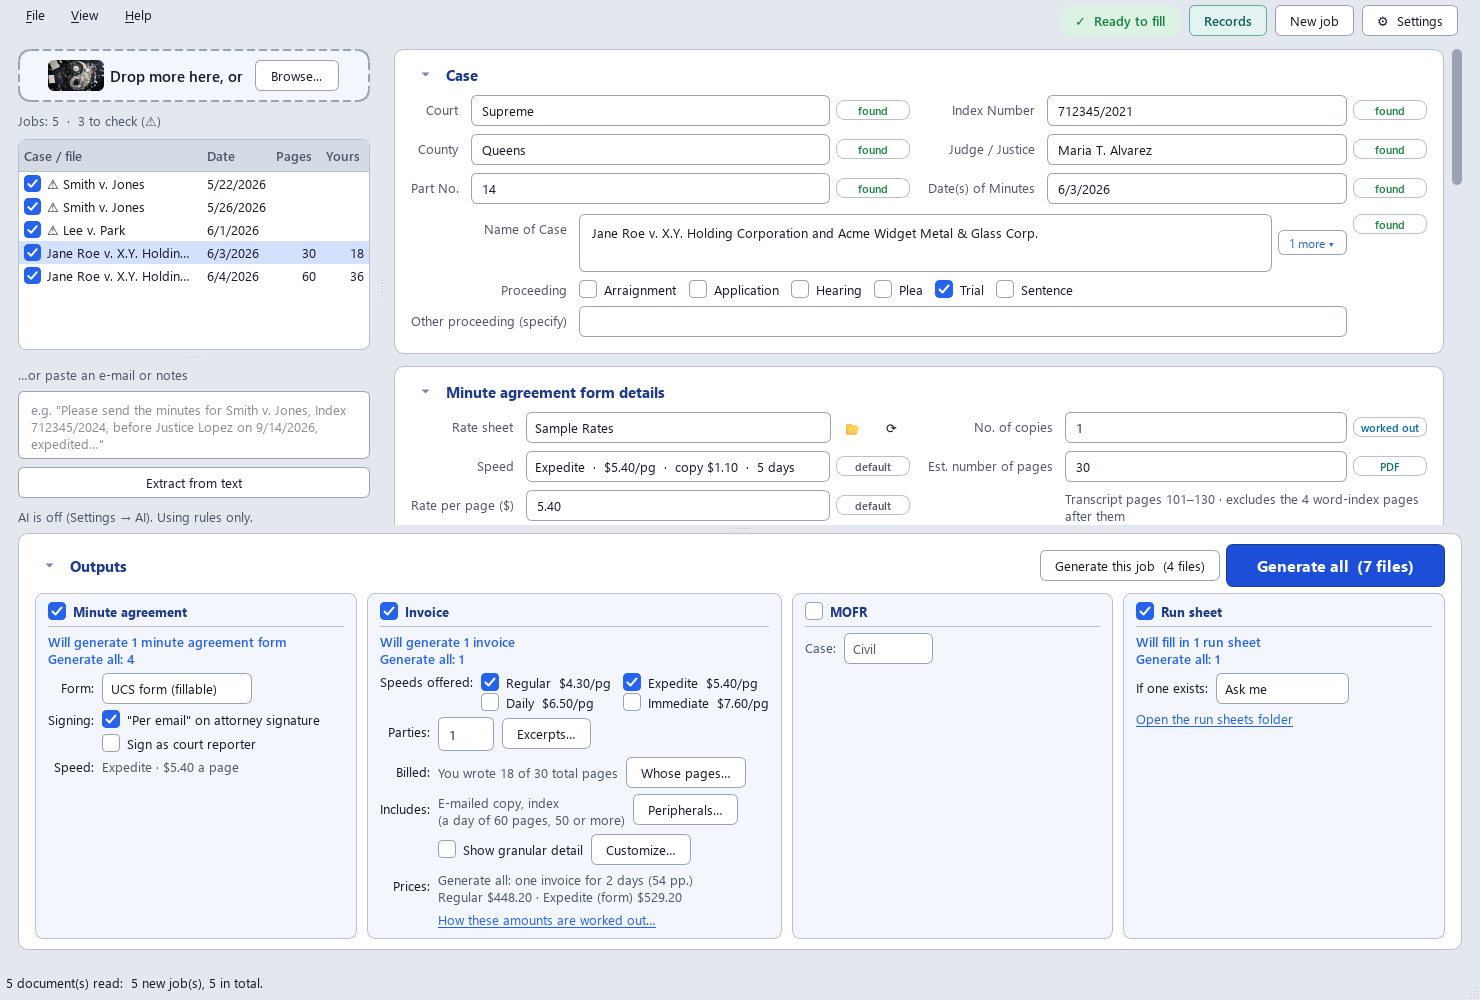
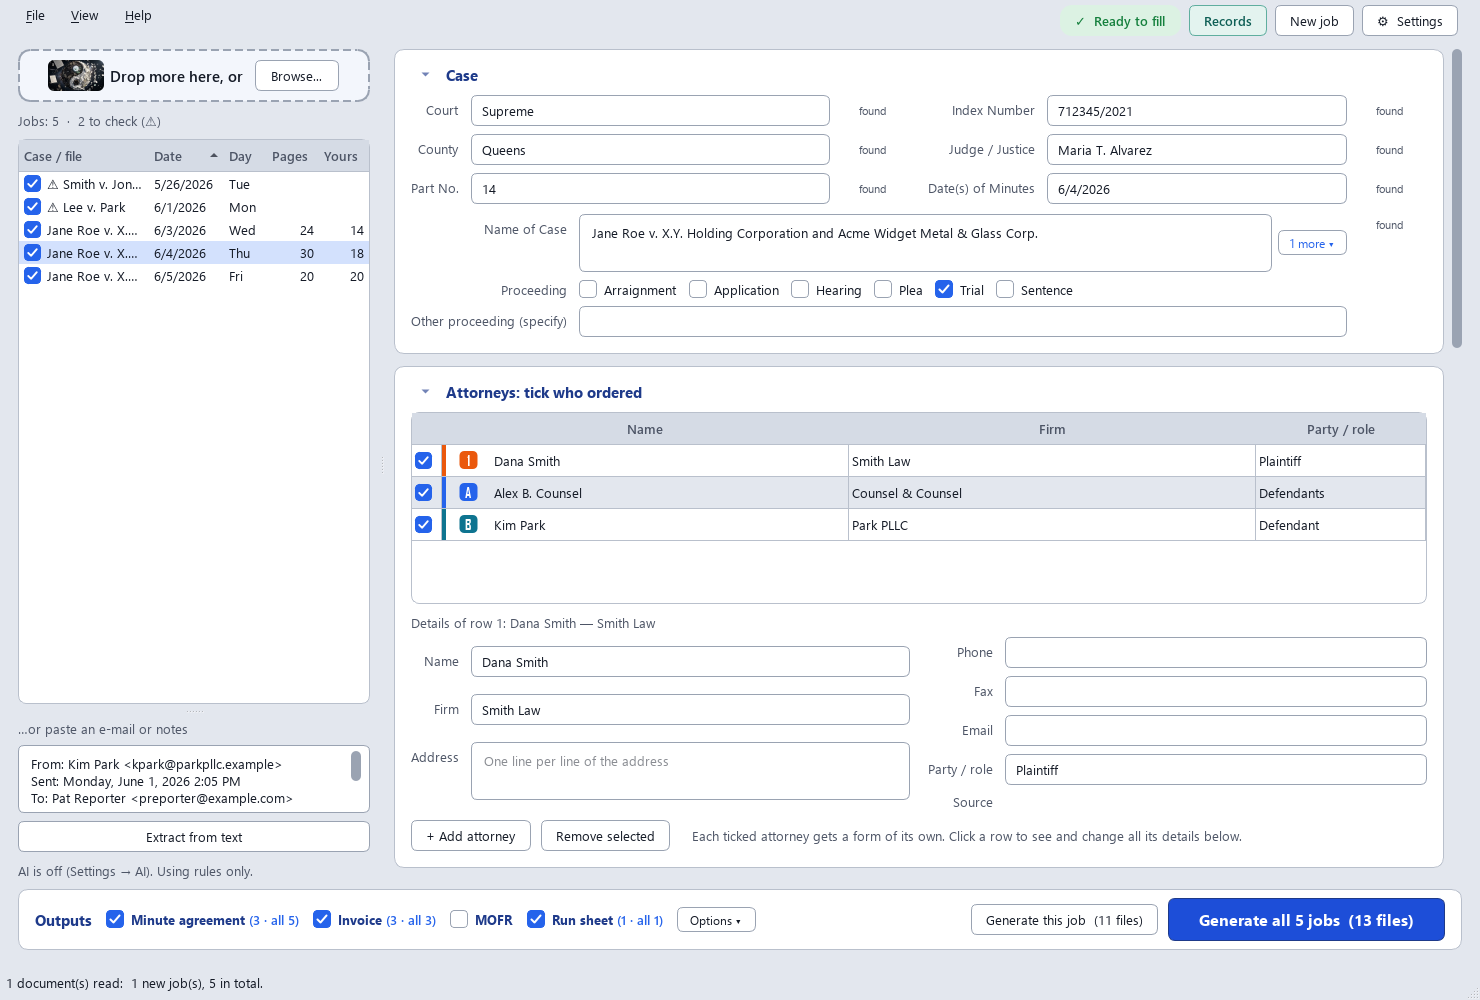
Website for 2.11.0: the form that follows the job, the Outputs row, firm tags, the sortable job list
The main window, batch and Who ordered what pictures taken again with made-up data; the text names the cards
as they are now (Speed, pages and dates, the Invoice card, Excerpts…), the Outputs row with Options, the list
of what to check, the Generate buttons' words, firm tags, the job list's day column and sorting, Who
transcribed what, and the math saved for everyone or one firm.

Claude-Session: https://claude.ai/code/session_01Rg6yCAZqgX1e9FnZik7wbx

diff --git a/docs/index.html b/docs/index.html
@@ -64,7 +64,7 @@
 </header>
 
 <div class="wrap">
-  <img class="shot" src="app.png" alt="The app with a case filled in from a pasted e-mail: the case details, the Minute agreement form details card and the Outputs box, each output saying how many files Generate will make, and at the top right what still needs a look, Records, New job and Settings">
+  <img class="shot" src="app.png" alt="The app with a case filled in from a pasted e-mail: a Before you generate box naming the one thing to check, the Case card, the Attorneys card with the sender ticked and tagged, the Outputs row with how many files each output makes, and at the top right the status, Records, New job and Settings">
 </div>
 
 <section>
@@ -79,9 +79,9 @@
     <h2>How to use it</h2>
     <ol class="steps">
       <li><b>Drop it in</b>A PDF (transcript, invoice), a photo, or paste the e-mail text or a screenshot with Ctrl+V.</li>
-      <li><b>Check the details</b>Every field shows where it came from. Guesses are highlighted, and a list offers other candidates. No case name in the document? An earlier job with the same index number in your records suggests one, highlighted for you to check.</li>
-      <li><b>Tick who ordered, and the speeds</b>Tick the firms who ordered: a firm is one row, naming all its attorneys on the title page, and gets one invoice and one agreement (No. of copies follows). Two rows that might be one firm, "Smith Law" and "Smith Law Group"? You're asked, <b>Same firm</b> or <b>Not the same</b>, and the app remembers your answer (untick <b>Remember</b> to answer for now only; Settings &rarr; Invoice lists your answers, so you can forget one). In the Invoice panel, tick the speeds you offer, once: the invoice lists them all, each at its own price, and the agreement form names one speed at one rate, Expedited when you offer it, unless you pick another under <b>Minute agreement form details</b>. An e-mail asking for another speed? It's pointed out, and Generate asks you which. <b>Who pays what</b>, under the attorneys, shows each firm's invoice in short as you tick. Rates and the estimated delivery date follow your rate sheet.</li>
-      <li><b>Generate</b>Tick what to make in the Outputs box: minute agreement, invoice, MOFR, run sheet, each with its own options, and each saying how many files it will make ("Will generate 2 minute agreement forms") as you tick attorneys. You see every file, and the math, before anything is saved; then the PDFs are saved, one per attorney you tick, and the run sheet gets the day's takes. Ctrl+Enter does it from the keyboard.</li>
+      <li><b>Check the details</b>Every field shows where it came from. Guesses are highlighted, and a list offers other candidates. Anything to look at before you generate is listed at the top of the form, each a link to its place. No case name in the document? An earlier job with the same index number in your records suggests one, highlighted for you to check.</li>
+      <li><b>Tick who ordered, and the speeds</b>Tick the firms who ordered: a firm is one row, naming all its attorneys on the title page, and gets one invoice and one agreement (No. of copies follows). Two rows that might be one firm, "Smith Law" and "Smith Law Group"? You're asked, <b>Same firm</b> or <b>Not the same</b>, and the app remembers your answer (untick <b>Remember</b> to answer for now only; Settings &rarr; Invoice lists your answers, so you can forget one). Under the rate sheet in <b>Speed, pages and dates</b>, tick the speeds you offer, once: the invoice lists them all, each at its own price, and the agreement form names one speed at one rate, Expedited when you offer it, unless you pick another there. An e-mail asking for another speed? It's pointed out, and Generate asks you which. Each firm gets a tag, as court exhibits are marked (the plaintiffs' firms 1, 2, the defense firms A, B), the same on every day of a trial and in every card. <b>Who pays what</b> shows each firm's invoice in short as you tick. Rates and the estimated delivery date follow your rate sheet.</li>
+      <li><b>Generate</b>Tick what to make in the Outputs row: minute agreement, invoice, MOFR, run sheet, each saying how many files it will make as you tick attorneys (<b>Options ▾</b> holds the choices that stay the same from job to job, and the invoice has a card of its own in the form). The button says what it makes: <i>Generate 6/4/2026 only</i>, <i>Generate all 3 days</i>. You see every file, and the math, before anything is saved; then the PDFs are saved, one per attorney you tick, and the run sheet gets the day's takes. Ctrl+Enter does it from the keyboard.</li>
     </ol>
   </div>
 </section>
@@ -90,9 +90,9 @@
   <div class="wrap two">
     <div>
       <h2>A hundred orders? Drop the whole folder.</h2>
-      <p>Batch mode reads any number of documents and sorts them into one job per case and date. A transcript and its invoice make one form, not two. Two days of the same case make two jobs, but <b>Generate all</b> gives each firm <b>one invoice</b> and one minute agreement for all the days it ordered, and the trial one MOFR (Settings &rarr; Options switches back to forms for each day). Tick the jobs you want and press <b>Generate all</b>: the preview shows every file and the math first, and nothing is saved until you say so. The list on the left shows each job's case and date, the transcript's own pages (no word index) and the pages you wrote (<b>Yours</b>); a job read from several documents lists them under it, and a right-click on one shows its text or moves it to a job of its own. A ⚠ next to a job means something to check; hover over it to see what. <b>New job</b> clears the list without asking, and <b>Undo</b> brings it all back for a few seconds.</p>
+      <p>Batch mode reads any number of documents and sorts them into one job per case and date. A transcript and its invoice make one form, not two. Two days of the same case make two jobs, but <b>Generate all</b> gives each firm <b>one invoice</b> and one minute agreement for all the days it ordered, and the trial one MOFR (Settings &rarr; Options switches back to forms for each day). Tick the jobs you want and press <b>Generate all</b>: the preview shows every file and the math first, and nothing is saved until you say so. The list on the left shows each job's case, date and day of the week, oldest first (click a heading to sort by it), the transcript's own pages (no word index) and the pages you wrote (<b>Yours</b>); a job read from several documents lists them under it, and a right-click on one shows its text or moves it to a job of its own. A ⚠ next to a job means something to check; hover over it to see what. <b>New job</b> clears the list without asking, and <b>Undo</b> brings it all back for a few seconds.</p>
     </div>
-    <img class="shot" src="batch.png" alt="Batch mode: five jobs in the list on the left, with each transcript's pages and the pages you wrote (30 and 18 for a trial day two reporters wrote), and the Outputs box: what Generate and Generate all will make, the speeds offered, You wrote 18 of 30 total pages, the index and why, and Run sheet ticked">
+    <img class="shot" src="batch.png" alt="Batch mode: five jobs in the list on the left, oldest first, with their day of the week, each transcript's pages and the pages you wrote (30 and 18 for a trial day two reporters wrote), the trial's three firms tagged 1, A and B in the Attorneys card, and the Outputs row: how many files each output makes for this day and for all the days, Generate this job and Generate all 5 jobs">
   </div>
 </section>
 
@@ -111,7 +111,7 @@
     <img class="shot" src="invoice.png" alt="One invoice for two days of a case, listing the Regular and Expedite amounts">
     <div>
       <h2>Invoices from your transcripts</h2>
-      <p>Drop a transcript PDF and tick <b>Invoice</b>. The page count leaves out the word index printed after the transcript, and the line under it says so: "Transcript pages 378&ndash;460 &middot; excludes the 13 word-index pages after them". It is counted four ways (up to the index, by the line numbers, by the printed page numbers, and the index found from the end); if they disagree, or the index would be more than a quarter of the PDF, the field turns amber and tells you why. The page count and your rate sheet price the original, each party's copy and e-mailed copy, and for long transcripts an index for each party, plus one for the judge that the parties split. Whether there is an index is decided on the whole transcript, every reporter's pages (50 pages or more to start with): your 45 pages of an 83-page transcript get one, charged on your 45. Typed fewer pages in <b>Est. number of pages</b> than the transcript has, and that would change it (40 of 83, say)? <b>Generate</b> asks you instead of deciding, and remembers your answer for that day; <b>Peripherals…</b> shows it and lets you change it. The speeds you tick in the Invoice panel (Regular and Expedited to start with) are the ones the invoice offers, each with its turnaround and amount, and with how to pay you. The agreement form names one of them, at one rate per page: Expedited when you offer it, otherwise the slowest. Settings &rarr; Invoice changes that rule, and the <b>Speed</b> dropdown under <b>Minute agreement form details</b> changes it for one job. No transcript, just a caption page? Type the pages in <b>Est. number of pages</b> and the invoice bills them. Want the page count, the pages of each day and the charges spelled out for this job? Tick <b>Show granular detail</b>, and choose what it shows. <b>Peripherals…</b> drops the e-mailed copy, or says yes or no to the index, for this job only, and the panel says why there is an index or not: "83 total pages, 50 or more". The notes on the invoice are yours to write, too: place them where you like and have them show only when they apply ("delivered once every party has paid" only when several parties ordered). Four firms sharing the pages can come to part of a cent a page ($6.6125): keep every fraction and round once at the end, as before, or set <b>Rounding</b> to <i>The price a page, to the cent</i> to bill $6.61 &times; 1,000 pages = $6,610.00, the way a firm checks it with a calculator. The prices in Excerpts&hellip; are rounded the same way.</p>
+      <p>Drop a transcript PDF and tick <b>Invoice</b>. The page count leaves out the word index printed after the transcript, and the line under it says so: "Transcript pages 378&ndash;460 &middot; excludes the 13 word-index pages after them". It is counted four ways (up to the index, by the line numbers, by the printed page numbers, and the index found from the end); if they disagree, or the index would be more than a quarter of the PDF, the field turns amber and tells you why. The page count and your rate sheet price the original, each party's copy and e-mailed copy, and for long transcripts an index for each party, plus one for the judge that the parties split. Whether there is an index is decided on the whole transcript, every reporter's pages (50 pages or more to start with): your 45 pages of an 83-page transcript get one, charged on your 45. Typed fewer pages in <b>Est. number of pages</b> than the transcript has, and that would change it (40 of 83, say)? <b>Generate</b> asks you instead of deciding, and remembers your answer for that day; <b>Peripherals…</b> shows it and lets you change it. The speeds you tick under <b>Speeds offered</b> (Regular and Expedited to start with) are the ones the invoice offers, each with its turnaround and amount, and with how to pay you. The agreement form names one of them, at one rate per page: Expedited when you offer it, otherwise the slowest. Settings &rarr; Invoice changes that rule, and the <b>Speed</b> dropdown under <b>Speed, pages and dates</b> changes it for one job. No transcript, just a caption page? Type the pages in <b>Est. number of pages</b> and the invoice bills them. Want the page count, the pages of each day and the charges spelled out for this job? Tick <b>Show granular detail</b>, and choose what it shows. <b>Peripherals…</b> drops the e-mailed copy, or says yes or no to the index, for this job only, and the <b>Invoice</b> card says why there is an index or not: "83 total pages, 50 or more". The notes on the invoice are yours to write, too: place them where you like and have them show only when they apply ("delivered once every party has paid" only when several parties ordered). Four firms sharing the pages can come to part of a cent a page ($6.6125): keep every fraction and round once at the end, as before, or set <b>Rounding</b> to <i>The price a page, to the cent</i> to bill $6.61 &times; 1,000 pages = $6,610.00, the way a firm checks it with a calculator. The prices in Excerpts&hellip; are rounded the same way.</p>
       <p>Shared the trial with another reporter? The invoice bills only <b>your</b> pages, the ones with your initials at the foot: 65 of a 150-page transcript, say. <b>Whose pages…</b> lets you tick <b>My pages</b>, another reporter's pages, or <b>The whole transcript</b>, and the app asks when it can't tell. Each other reporter you tick gets invoices for their own pages, in their name, with their address and payment details (Settings &rarr; Run sheet &rarr; Invoices for, or <b>Details…</b>), numbered apart from yours (DS-2026-0001), with file names that say whose they are. Sample shown uses made-up names.</p>
     </div>
   </div>
@@ -131,10 +131,10 @@
   <div class="wrap two">
     <div>
       <h2>Who pays for what, in plain sight</h2>
-      <p>Before you generate, the <b>Who ordered what</b> card lists every day the invoice covers, with a row for each attorney: the pages it ordered (every page, or which excerpt), the page numbers printed on them, who else ordered the same pages, and how many of your pages that bills. An attorney not ticked on a day "orders nothing", and when an invoice won't be made yet (a day with nobody ticked, an excerpt to check, whose pages to bill) the card says so in amber. Double-click a row, or click <b>Edit excerpts…</b>, to change it. <b>Generate all</b> asks before it bills a case with a day not decided: go back and decide, or go on without it.</p>
+      <p>Before you generate, the <b>Who ordered what</b> card lists every day the invoice covers, with a row for each attorney: the pages it ordered (every page, or which excerpt), the page numbers printed on them, who else ordered the same pages, and how many of your pages that bills. An attorney not ticked on a day "orders nothing", and when an invoice won't be made yet (a day with nobody ticked, an excerpt to check, whose pages to bill) the card says so in amber. Double-click a row, or click <b>Excerpts…</b>, to change it. Each firm has its tag and a stripe of its colour, the same on every day. <b>Generate all</b> asks before it bills a case with a day not decided: go back and decide, or go on without it.</p>
       <p><b>Different speeds on the same pages?</b> Firms that share pages each commit to a speed: set it in the card's <b>Speed</b> column (or one run's own in Excerpts…), or Generate asks. The one original is billed at the fastest speed ordered; each slower firm pays its share as if every firm had ordered its speed, the fastest pays the rest, and each pays its own copies at its own speed. One firm at Daily and one at Immediate, 10 pages of Sample Rates: the original is $7.60 a page at Immediate, the Daily firm pays $6.50 &divide; 2 = $3.25 of it and the Immediate firm $4.35, and together they pay exactly the bill. A firm with two speeds gets one minute agreement, both speeds ticked. For now, at most two speeds may share the same pages. Sample shown uses made-up names.</p>
     </div>
-    <img class="shot" src="orders.png" alt="The Who ordered what card: Alex B. Counsel ordered pages 1 to 30 at Daily, Dana Smith every page at Immediate, with who else ordered the same pages">
+    <img class="shot" src="orders.png" alt="The Who ordered what card: three days of a trial, a row for each firm and day, each firm's tag (Dana Smith 1, Alex B. Counsel A, Kim Park B), every page ordered, Dana Smith and Kim Park at Daily, Alex B. Counsel at Immediate, the printed page numbers, who else ordered them and your pages billed">
   </div>
 </section>
 
@@ -152,7 +152,7 @@
   <div class="wrap two">
     <div>
       <h2>Asked how you got that number?</h2>
-      <p>Your invoices can stay clean, with just the amounts, and the math is still at hand. <b>The math</b>, the preview's first tab, lays out each amount in tables: <b>By invoice</b>, a row for each charge with its pages, rate and cost, whether <i>each firm splits this cost</i> or <i>pays for its own</i>, and what this firm pays, stretch by stretch of pages ("50 pages ordered by 2 firms &hellip; &divide; 2"); or <b>Firms side by side</b>, a column for each firm. It remembers the one you chose, and the Invoice panel has its own link to it before you generate. Firms ordered the same pages at different speeds? <b>Who pays what a page</b> shows, for each set of those pages, what each firm pays a page of every charge, just as its invoice bills it, and what they come to together. When several firms share the work, <b>All the firms together</b> checks that what they pay covers it. <b>Copy all</b> copies it as text, a line for each charge, for a reply. With previews off, it comes in a small window after saving: <b>OK</b>, <b>Copy all</b>, <b>Save as PDF…</b> (the tables) for the attorney who asked, or <b>Don't show this anymore</b> (<i>Show the math of each invoice</i> in Settings &rarr; Options brings it back). And it's kept: <b>Generate</b> saves the math as PDFs next to the invoices, one for each invoice (to send the firm that asks) and one for the whole job; the list under the math, or Settings &rarr; Invoice, says which, or none. Prefer it on the invoice itself? Settings &rarr; Invoice can also save a <b>detailed copy</b> of every invoice, the same invoice number with the full breakdown. Sample shown uses made-up names.</p>
+      <p>Your invoices can stay clean, with just the amounts, and the math is still at hand. <b>The math</b>, the preview's first tab, lays out each amount in tables: <b>By invoice</b>, a row for each charge with its pages, rate and cost, whether <i>each firm splits this cost</i> or <i>pays for its own</i>, and what this firm pays, stretch by stretch of pages ("50 pages ordered by 2 firms &hellip; &divide; 2"); or <b>Firms side by side</b>, a column for each firm. It remembers the one you chose, and the Invoice card has its own link to it before you generate. Firms ordered the same pages at different speeds? <b>Who pays what a page</b> shows, for each set of those pages, what each firm pays a page of every charge, just as its invoice bills it, and what they come to together. When several firms share the work, <b>All the firms together</b> checks that what they pay covers it. <b>Copy all</b> copies it as text, a line for each charge, for a reply. With previews off, it comes in a small window after saving: <b>OK</b>, <b>Copy all</b>, <b>Save as PDF…</b> (everyone's, or only what one firm owes) for the attorney who asked, or <b>Don't show this anymore</b> (<i>Show the math of each invoice</i> in Settings &rarr; Options brings it back). And it's kept: <b>Generate</b> saves the math as PDFs next to the invoices, one for each invoice (to send the firm that asks) and one for the whole job; the list under the math, or Settings &rarr; Invoice, says which, or none. Prefer it on the invoice itself? Settings &rarr; Invoice can also save a <b>detailed copy</b> of every invoice, the same invoice number with the full breakdown. Sample shown uses made-up names.</p>
     </div>
     <img class="shot" src="math.png" alt="The math in tables, By invoice: the original and the judge's index split stretch by stretch (40 pages ordered by this firm alone, 50 pages ordered by 2 firms), the copy, e-mailed copy and index each firm pays for its own, and what this firm pays at each speed">
   </div>
@@ -162,7 +162,7 @@
   <div class="wrap two">
     <div>
       <h2>Shared trial? The run sheet keeps count.</h2>
-      <p>When reporters take turns, each one puts their initials on the pages they write. <b>Run sheet</b> ticks itself when two or more reporters wrote the case's transcripts (and unticks when one did; click it to decide yourself), and the app reads those initials page by page and adds a row per take to the trial's run sheet in Excel: date, reporter, pages written, start and end page, and the witness who took the stand. It finds the trial's run sheet by index number or case name (one trial can have several index numbers) and asks before adding to it. All the days of a trial go on it in one go: if it's open in Excel, you're told to close it before anything is made, so it never ends up missing a day. Filter by reporter to see their pages, or open the <b>By Reporter</b> sheet for everyone's totals. Sample shown uses made-up names.</p>
+      <p>When reporters take turns, each one puts their initials on the pages they write. <b>Run sheet</b> ticks itself when two or more reporters wrote the case's transcripts (and unticks when one did; click it to decide yourself), and the app reads those initials page by page and adds a row per take to the trial's run sheet in Excel: date, reporter, pages written, start and end page, and the witness who took the stand. It finds the trial's run sheet by index number or case name (one trial can have several index numbers) and asks before adding to it. All the days of a trial go on it in one go: if it's open in Excel, you're told to close it before anything is made, so it never ends up missing a day. Filter by reporter to see their pages, or open the <b>By Reporter</b> sheet for everyone's totals. In the app, the <b>Who transcribed what</b> card lists every take of the trial's days, with each reporter's pages; <b>Save a copy</b> makes an Excel or CSV file of it. Sample shown uses made-up names.</p>
     </div>
     <img class="shot" src="runsheet.png" alt="A run sheet: one row per take, with the reporter, pages written and page numbers">
   </div>
@@ -205,7 +205,7 @@
       <div class="card"><h3>Asks when unsure</h3><p>Missing or conflicting items (index number, dates, judge) are raised before filling, never silently guessed. Documents of one job whose index numbers don't match are pointed out before anything is made.</p></div>
       <div class="card"><h3>Remembers you</h3><p>Your name, address, phone, e-mail, rate sheet, copies and signature are set once in Settings. The speeds you offer and what you tick in the Outputs box stay ticked.</p></div>
       <div class="card"><h3>Fix it afterwards</h3><p>The PDFs stay fillable: every value the app typed in, invoice amounts included, can be corrected in a PDF viewer. When it's final, File &rarr; Lock finished PDFs saves a locked copy.</p></div>
-      <div class="card"><h3>Fits your screen</h3><p>Works with Windows' display scaling, and Ctrl + and Ctrl &minus; (or Ctrl and the mouse wheel) make everything bigger or smaller. On a small laptop, fold the Outputs box and each card to one line that sums it up (the View menu does it all), and drag the dividers; the app remembers. On a short screen the Outputs box starts folded.</p></div>
+      <div class="card"><h3>Fits your screen</h3><p>Works with Windows' display scaling, and Ctrl + and Ctrl &minus; (or Ctrl and the mouse wheel) make everything bigger or smaller. The Outputs box is one row, so the form keeps the room. Fold any card to one line that sums it up (the View menu does them all), and drag the divider; the app remembers.</p></div>
       <div class="card"><h3>Your folders</h3><p>Each case gets a folder of its own, named by its index number (712345-2021) or as you like, next to your documents or in the folder you choose. Or give agreements, invoices, MOFRs and run sheets a folder each.</p></div>
       <div class="card"><h3>Your rate sheets</h3><p>Rates live in small spreadsheets (CSV) you can edit in Excel: private, city, whatever you charge. A speed missing a price (Original, Copy, Email or Index) is pointed out, and so is a faster speed that costs less than a slower one (&ldquo;Daily's Index, $1.00, is less than Expedite's, $1.10&rdquo;). The column headings don't have to be exact.</p></div>
       <div class="card"><h3>Optional local AI</h3><p>If you use Ollama, an AI helper can read messy photos and e-mails. It is only used when Ollama is installed, and it stays on your machine. Everything it says is checked against the document, and it ticks who ordered only from e-mails and pasted text. Choose the smaller, faster model or the larger, more accurate one in Settings.</p></div>
